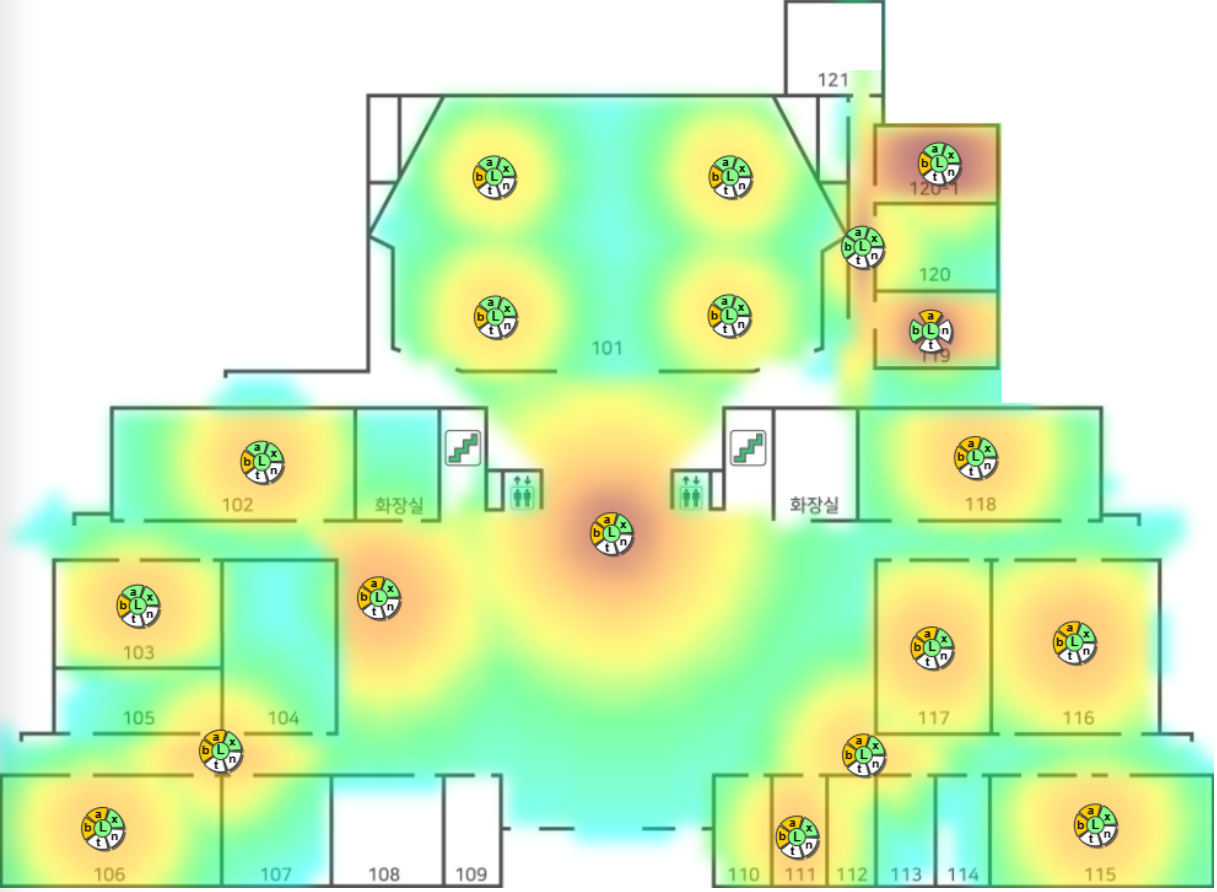
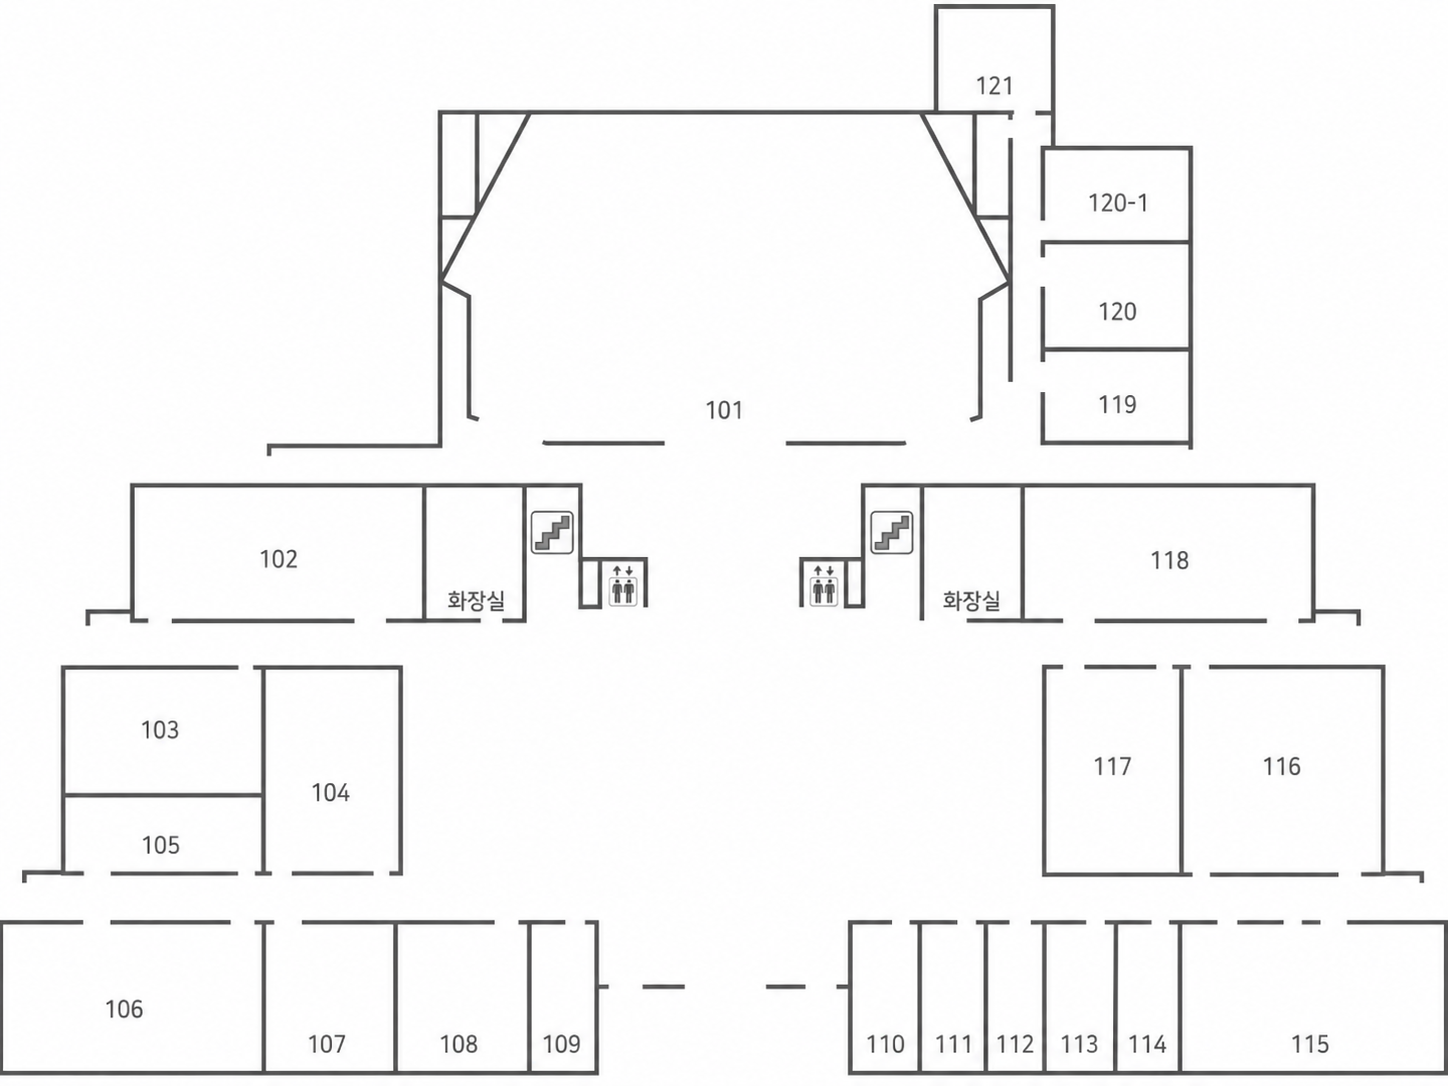
데모 입력에 맞게 모든 파일 수정

diff --git a/model2.py b/model2.py
@@ -50,6 +50,12 @@ PARAMS = {
         "전자정보/응용과학대학관": "전정대",
         "전자정보응용과학대학관": "전정대",
         "전자정보·응용과학대학관": "전정대",
+        # OCR 이 '전자정보대학-응용과 학대 학관' 처럼 '대학'을 붙이고 하이픈을 쓰는 표기.
+        # normalize_building_key 는 하이픈을 지우지 않으므로(호수의 B104-2 보존) 그대로 등록한다.
+        "전자정보대학-응용과학대학관": "전정대",
+        "전자정보대학응용과학대학관": "전정대",
+        "전자정보대학/응용과학대학관": "전정대",
+        "전자정보대학·응용과학대학관": "전정대",
         "전정대": "전정대",
         "국제학관": "국제학관",
         "천문대": "천문대",
@@ -61,6 +67,8 @@ PARAMS = {
         "제2기숙사(남)",
         "제2기숙사(여)",
         "한방재료가공",
+        # 실재하는 건물이 아니라 수거 대상에서 제외한다.
+        "가상공간",
     ],
 
     # 요청 호수가 nodes CSV의 assigned_rooms에 없을 때 사용할 건물별 행정실 호수.

diff --git a/api.py b/api.py
@@ -840,6 +840,7 @@ NAV_CSV_ALIAS = {
 # 동선 건물명 → route_buildings 폴더명(철자가 다른 경우만).
 NAV_FOLDER_ALIAS = {
     "예디대": "예술디자인대학",
+    "전정대": "전자정보대학",
 }
 # floor_mapping 층키와 이미지 파일 접미어가 어긋나는 건물의 수동 보정.
 # 예: 중앙도서관은 floor_mapping 이 0F/1F 인데 이미지는 B1F/1F 라벨을 쓴다.
